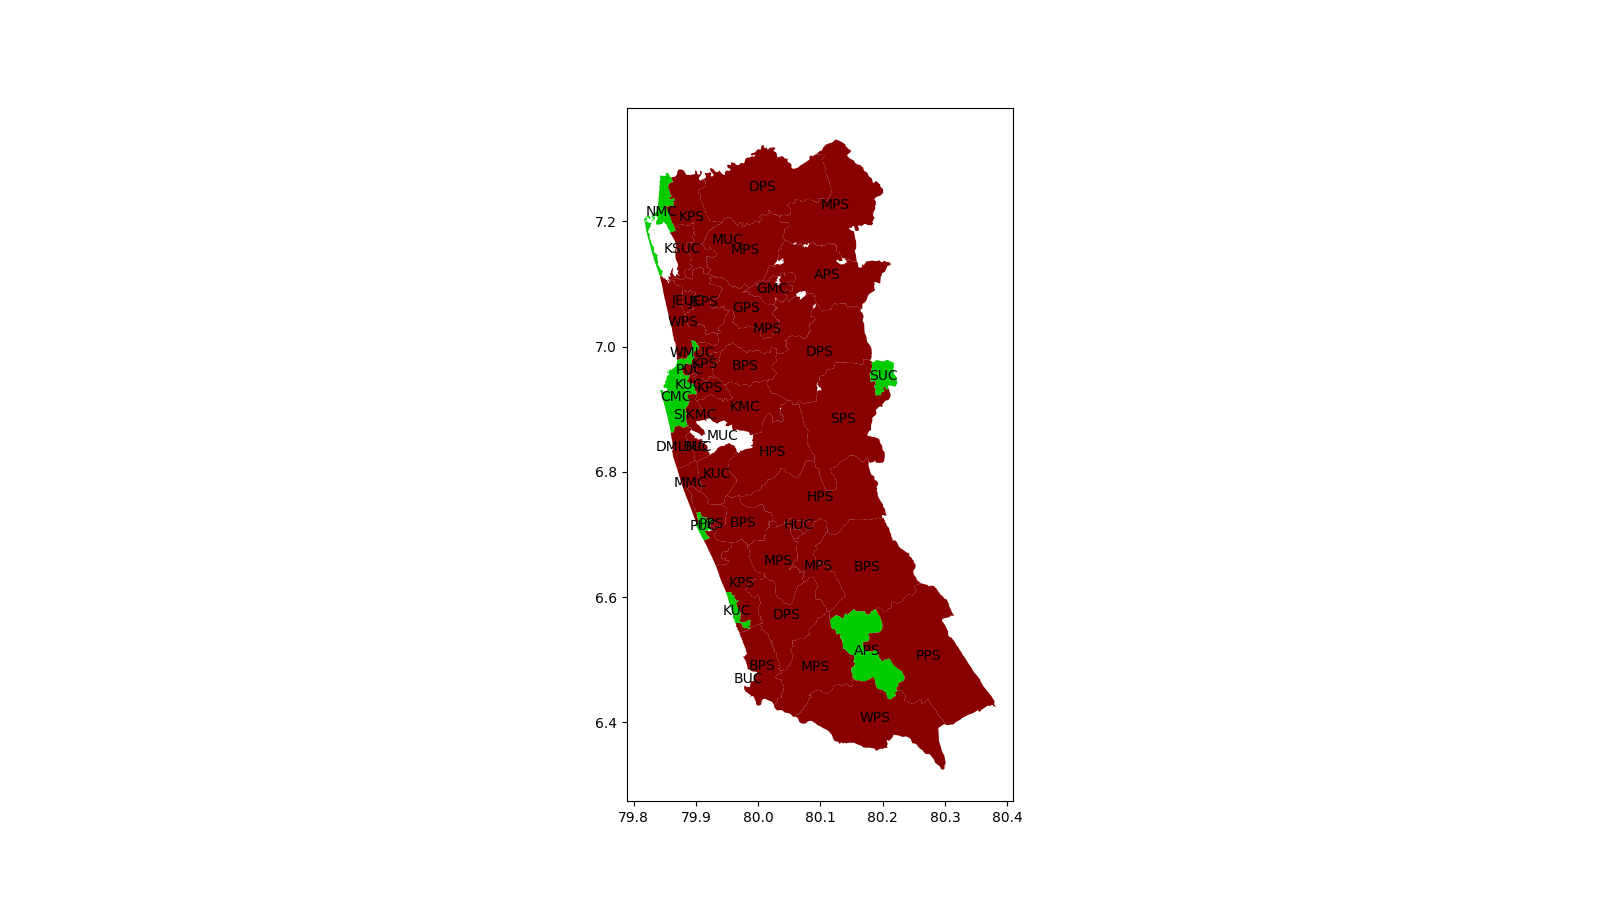
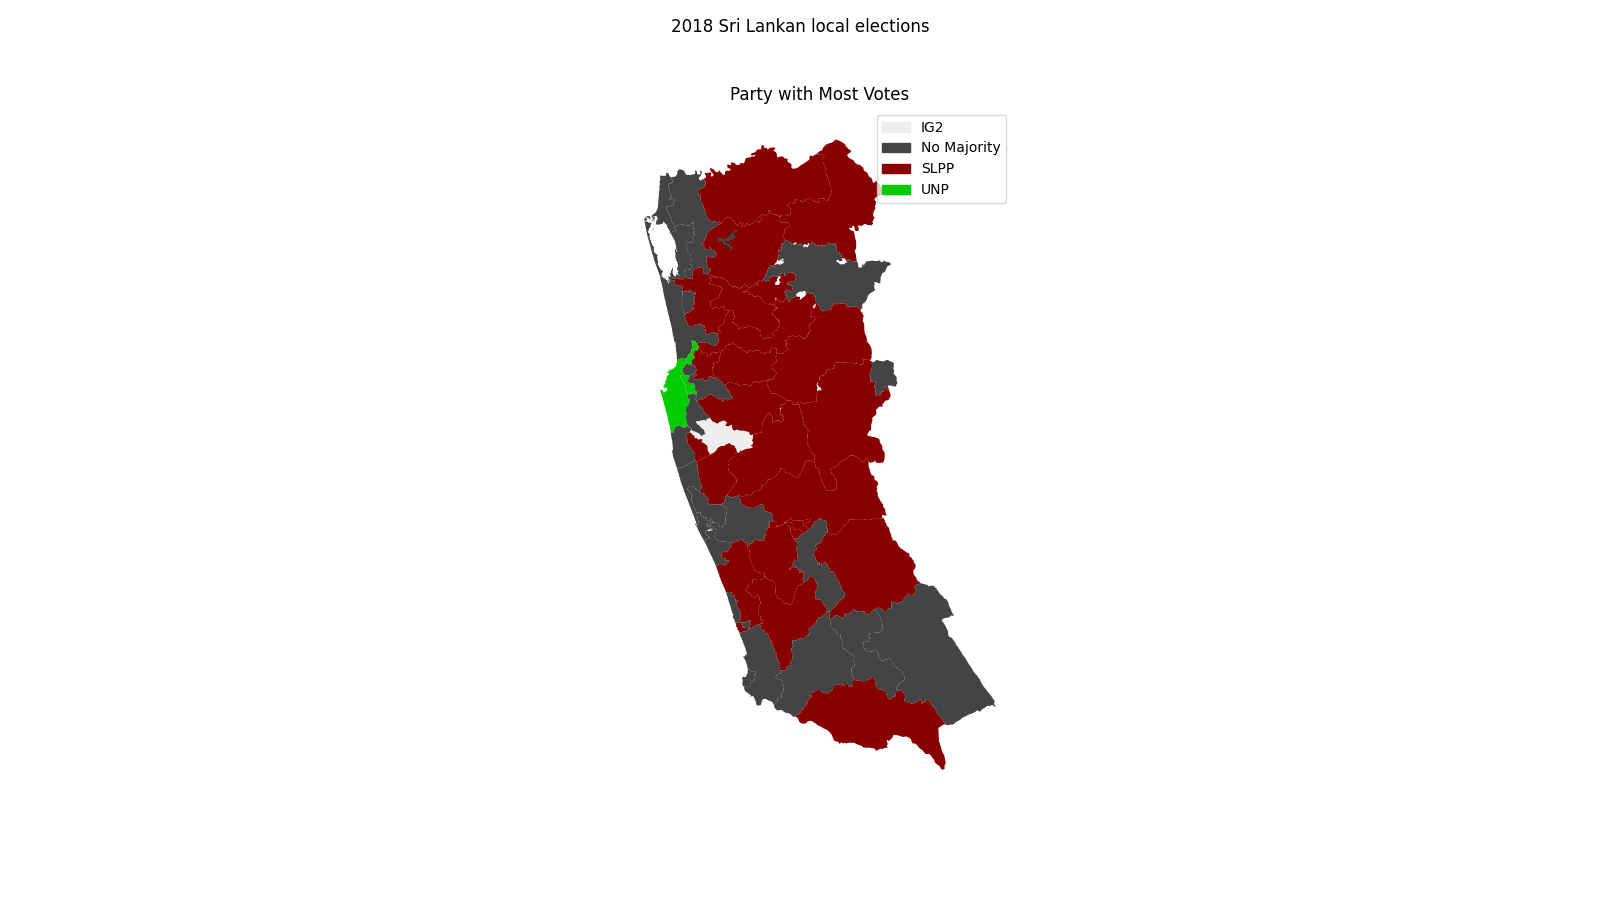
various

diff --git a/examples/local_authority/example3_lg_results_map_filtered.py b/examples/local_authority/example3_lg_results_map_filtered.py
@@ -1,11 +1,11 @@
 import sys
 
+import matplotlib.patches as mpatches
 import matplotlib.pyplot as plt
 from gig import Ent
 
-from elections_lk.elections import ElectionLocalAuthority
-
 from elections_lk.core import Party
+from elections_lk.elections import ElectionLocalAuthority
 
 if __name__ == '__main__':
     election = ElectionLocalAuthority.load(2018)
@@ -13,26 +13,40 @@ if __name__ == '__main__':
 
     _, ax = plt.subplots(figsize=(16, 9))
 
-    for result in election.lg_final_results:
+    filtered_results = [
+        result
+        for result in election.lg_final_results
+        if id_filter in result.region_id
+    ]
+    party_set = set()
+    show_labels = len(filtered_results) <= 10
+    for result in filtered_results:
         ent = Ent.from_id(result.region_id)
-        if id_filter not in ent.id:
-            continue
-
         best_party, best_seats = result.party_to_seats.items_sorted()[0]
+
         if best_seats > result.total_seats / 2:
             color = Party(best_party).color
+            party_set.add(best_party)
         else:
-            color = '#888'
+            color = Party.DEFAULT_COLOR
+            party_set.add('No Majority')
 
-        ent.geo().plot(ax=ax, color=color)
+        plot = ent.geo().plot(ax=ax, color=color)
 
-        plt.annotate(
-            ent.acronym,
-            xy=ent.lnglat,
-            xytext=ent.lnglat,
-            horizontalalignment='center',
-            verticalalignment='center',
-        )
+        if show_labels:
+            plt.annotate(
+                ent.acronym,
+                xy=ent.lnglat,
+                xytext=ent.lnglat,
+                horizontalalignment='center',
+                verticalalignment='center',
+            )
+
+    handles = [
+        mpatches.Patch(color=Party(party).color, label=party)
+        for party in sorted(party_set)
+    ]
+    plt.legend(handles=handles)
 
     plt.axis('off')
     plt.suptitle('2018 Sri Lankan local elections')
@@ -41,4 +55,5 @@ if __name__ == '__main__':
     png_file_name = __file__[:-3] + '.' + id_filter + '.png'
     plt.savefig(png_file_name)
     plt.close()
+
     print('Saved ', png_file_name)

diff --git a/src/elections_lk/core/Party.py b/src/elections_lk/core/Party.py
@@ -6,7 +6,7 @@ PARTY_TO_COLOR = {
     'EPDP': '#f00',
     'IG': '#eee',
     'IG2': '#eee',
-    'IG3': '#eee',    
+    'IG3': '#eee',
     'ITAK': '#ff0',
     'JVP': '#f00',
     'MNA': '#080',
@@ -19,13 +19,13 @@ PARTY_TO_COLOR = {
     'UPFA': '#00f',
 }
 
-DEFAULT_PARTY_COLOR = '#444'
 
 class Party:
+    DEFAULT_COLOR = '#444'
+
     def __init__(self, party: str):
         self.party = party
 
     @property
     def color(self):
-        return PARTY_TO_COLOR.get(self.party, DEFAULT_PARTY_COLOR)
-        
+        return PARTY_TO_COLOR.get(self.party, Party.DEFAULT_COLOR)

diff --git a/src/elections_lk/core/__init__.py b/src/elections_lk/core/__init__.py
@@ -1,7 +1,7 @@
 from elections_lk.core.FinalResult import FinalResult
+from elections_lk.core.Party import Party
 from elections_lk.core.PartyToSeats import PartyToSeats
 from elections_lk.core.PartyToVotes import PartyToVotes
 from elections_lk.core.Result import Result
 from elections_lk.core.Seats import Seats
-from elections_lk.core.Party import Party
 from elections_lk.core.SummaryStatistics import SummaryStatistics

diff --git a/examples/local_authority/example2_lg_results_map.py b/examples/local_authority/example2_lg_results_map.py
@@ -1,9 +1,8 @@
 import matplotlib.pyplot as plt
 from gig import Ent
 
-from elections_lk.elections import ElectionLocalAuthority
 from elections_lk.core import Party
-
+from elections_lk.elections import ElectionLocalAuthority
 
 if __name__ == '__main__':
     election = ElectionLocalAuthority.load(2018)
